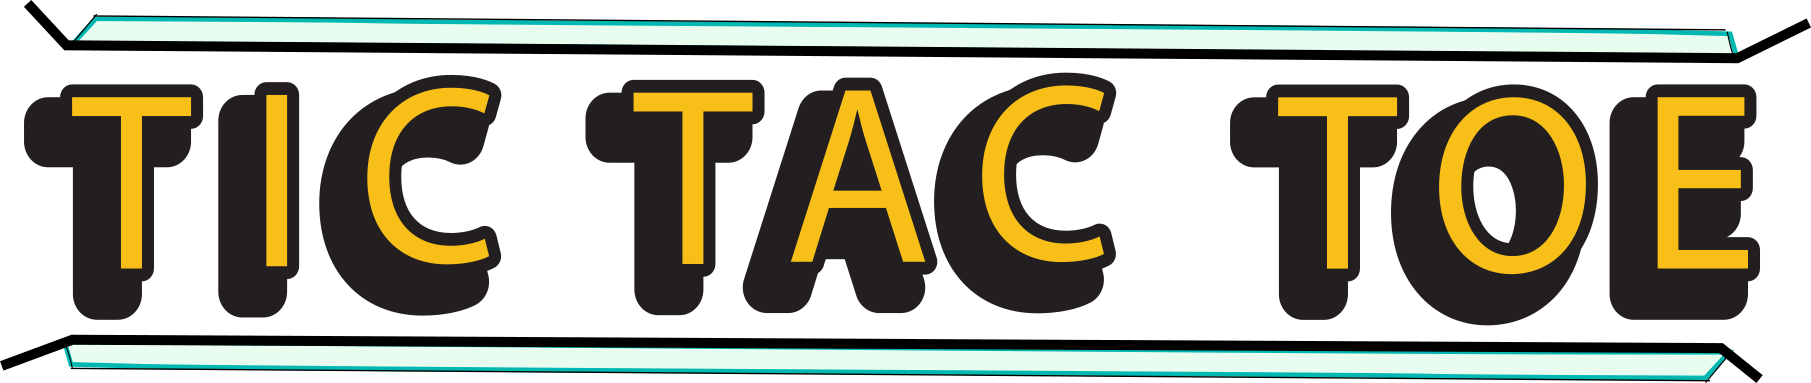
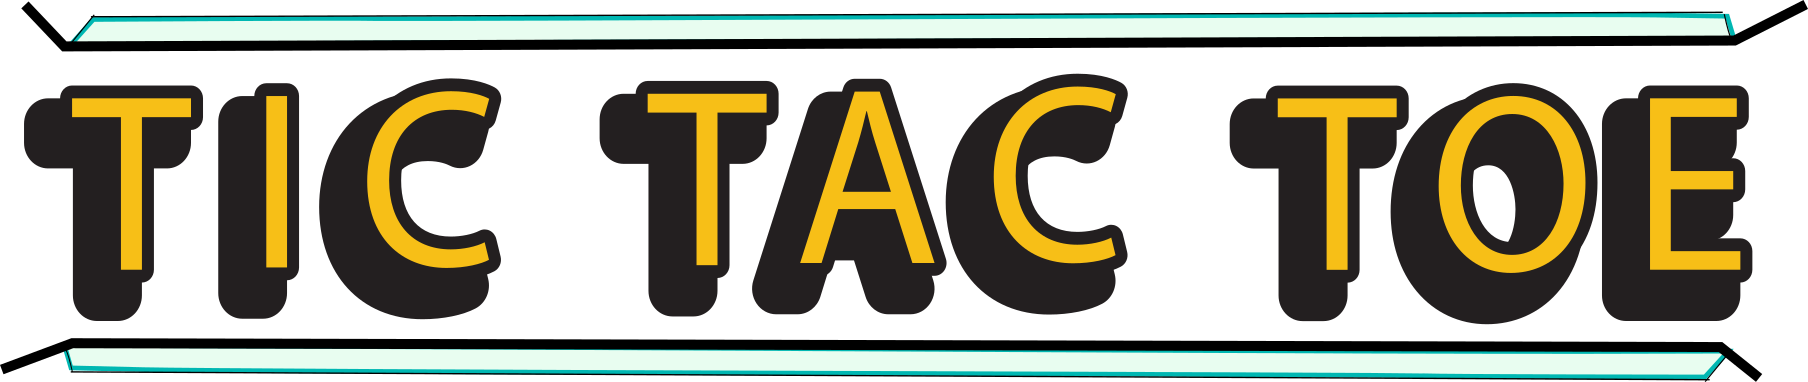
General Layout created for TicTacToe Page / Images for TicTacToe Added

diff --git a/tictactoe.php b/tictactoe.php
@@ -1,0 +1,72 @@
+<!DOCTYPE html>
+
+<?php
+    session_start();
+    
+    if(isset($_SESSION['userID'])) {
+        $currentUser = $_SESSION['userID'];
+    }
+?>
+
+<html>
+<head>
+    <title>LARM > TicTacToe Session</title>
+    <link href="css/styles.css" type="text/css" rel="stylesheet" />
+    </head>
+
+<body>
+    <div class="pageContainer">
+    
+        <div class="headerContainer">
+        
+            <div class="headerBanner">
+            <div class="headerRight">
+                <img src="images/tictactoe.png" alt="Tic Tac Toe" title="Tic Tac Toe" width="226" height="48">
+                <?php 
+                    echo '<a href="logout.php">LOGOUT</a>';
+                    ?>               
+            </div>
+        </div>
+        
+            <div class="headerLeft">
+            <a href="index.php"><img src="images/LARMGaming.png" alt="LARM Gaming" title="LARM Gaming" width="176" height="240"></a>
+            </div>
+        </div>
+    
+        <div class="bodyContainer">
+            <div id="gameInsert"><b><h1>PLAYER X TURN</h1></b>
+            <table width=100%>
+                <tr>
+                    <td><button>CELLA1</button></td>
+                    <td><button>CELLA2</button></td>
+                    <td><button>CELLA3</button></td>
+                </tr>
+                <tr>
+                    <td><button>CELLB1</button></td>
+                    <td><button>CELLB2</button></td>
+                    <td><button>CELLB3</button></td>
+                </tr>
+                <tr>
+                    <td><button>CELLC1</button></td>
+                    <td><button>CELLC2</button></td>
+                    <td><button>CELLC3</button></td>
+                </tr>
+                </table>
+                </div>
+            </div>
+        
+            <div class="footerContainer">
+        
+                <div class="footerLeft">
+                <a href="about.php" target="_blank">ABOUT US</a>
+                    </div>
+    
+                <div class="footerRight">
+                    <img src="images/HTML5_Badge_64.png" alt="made with HTML5" title="made with HTML5" width="32" height="32">
+                    <a href="https://github.com/team-larm/LARM" target="_blank"><img src="images/GitHub-Mark-64px.png" alt="visit project on GitHub" title="visit project on GitHub" height="32" width="32"></a>
+                    </div>
+                </div>
+        </div>
+    </body>
+    
+</html>
